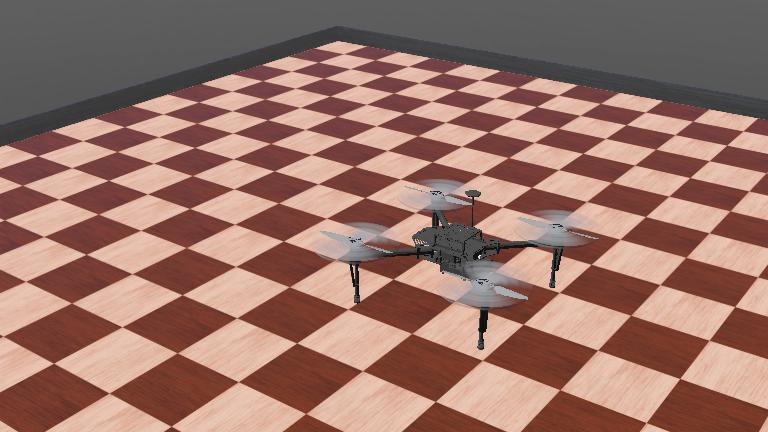
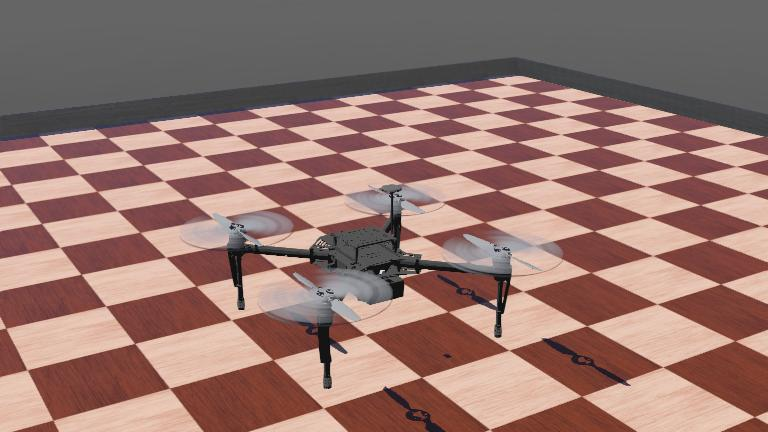
【new】加入位置控制

diff --git a/controllers/drone_controller/drone_controller.cpp b/controllers/drone_controller/drone_controller.cpp
@@ -101,9 +101,11 @@ int main(int argc, char **argv) {
   Accelerometer *acc = robot->getAccelerometer("acc");
   acc->enable(timeStep);
 
-  float vel_z = 0;
-  float prev_pos_z = 0;
-  float height_tar = 5;
+
+  
+
+
+
   /**
    * @brief 启用电机
    * 
@@ -174,8 +176,49 @@ int main(int argc, char **argv) {
   pos_z_pid.setOutputLimit(5.0f);
   pos_z_pid.setIntegralLimit(100.0f);
 
-  float yaw_tar = 0.0f;
+  PID pos_xy_pid[2];
+  pos_xy_pid[0].setGains(1.0f,0.0f,0.0f);
+  pos_xy_pid[0].setOutputLimit(10.0f);
+  pos_xy_pid[1].setGains(1.0f,0.0f,0.0f);
+  pos_xy_pid[1].setOutputLimit(10.0f);
 
+  PID vel_xy_pid[2];
+  vel_xy_pid[0].setGains(0.3f,0.0f,0.03f);
+  vel_xy_pid[0].setOutputLimit(0.5f);
+  vel_xy_pid[1].setGains(0.3f,0.0f,0.03f);
+  vel_xy_pid[1].setOutputLimit(0.5f);
+
+
+  float pos_x = 0;
+  float pos_y = 0;
+  float pos_z = 0;
+
+  float prev_pos_z = 0;
+  float prev_pos_x = 0;
+  float prev_pos_y = 0;
+
+
+  float vel_z = 0;
+  float vel_x = 0;
+  float vel_y = 0;
+
+
+  float pos_x_tar = 0.0f;
+  float pos_y_tar = 0.0f;
+
+  float vel_x_tar = 0.0f;
+  float vel_y_tar = 0.0f;
+
+  float acc_x_tar = 0.0f;
+  float acc_y_tar = 0.0f;
+
+
+  float yaw_tar = 0.0f;
+  float height_tar = 3;
+
+
+  int step = 0;
+  double step_time = 0;
   // Main loop:
   // - perform simulation steps until Webots is stopping the controller
   while (robot->step(timeStep) != -1) {
@@ -191,17 +234,96 @@ int main(int argc, char **argv) {
     const double *gps_info  = gps->getValues();
     const double *acc_info  = acc->getValues();
 
+    pos_x = gps_info[0];
+    pos_y = gps_info[1];
+    pos_z = gps_info[2];
+
+    std::cout<<"pos_x"<<pos_x<<std::endl;
+    std::cout<<"pos_y"<<pos_y<<std::endl;
+
+    vel_x = 0.8*(gps_info[0]-prev_pos_x)/dt+0.2*vel_x;
+    vel_y = 0.8*(gps_info[1]-prev_pos_y)/dt+0.2*vel_y;
     vel_z = 0.8*(gps_info[2]-prev_pos_z)/dt+0.2*vel_z;
+
+    prev_pos_x = gps_info[0];
+    prev_pos_y = gps_info[1];
     prev_pos_z = gps_info[2];
+    
+
+    if (step == 0)
+    {
+      height_tar = 3;
+      pos_x_tar  = 0;
+      pos_y_tar  = 0;
+      if ((robot->getTime()-step_time)>5.0)
+      {
+        
+        step_time = robot->getTime();
+        step = 1;
+      }
+      
+    }
+    else if (step ==1)
+    {
+      height_tar = 3;
+      pos_x_tar  = 5;
+      pos_y_tar  = 0;
+      if ((robot->getTime()-step_time)>5.0)
+      {
+        
+        step_time = robot->getTime();
+        step = 2;
+      }     
+    }
+    else if (step ==2)
+    {
+      height_tar = 3;
+      pos_x_tar  = 5;
+      pos_y_tar  = 5;
+      if ((robot->getTime()-step_time)>5.0)
+      {
+        
+        step_time = robot->getTime();
+        step = 3;
+      }
+    }    
+    else if (step ==3)
+    {
+      height_tar = 3;
+      pos_x_tar  = 0;
+      pos_y_tar  = 5;
+      if ((robot->getTime()-step_time)>5.0)
+      {
+        
+        step_time = robot->getTime();
+        step = 0;
+      }
+    }    
+
+
+
+
+    // if (m_abs(pos_x - 0.0)<0.1f&&
+    //     m_abs(pos_y - 0.0)<0.1f&&
+    //     m_abs(pos_z - 0.0)<0.1f&&
+    //    )
+    // {
+    //   /* code */
+    // }
+    // else
+    // {
+    //   /* code */
+    // }
+    
 
     // std::cout<<vel_z<<", "
-    //           <<gps_info[2]<<std::endl;
+    // <<gps_info[2]<<std::endl;
     //std::cout<<acc_info[2]<<std::endl;
     
     // // 初始姿态四元数 (无旋转)
     Quatf current_attitude(quat_info[3],quat_info[0], quat_info[1], quat_info[2]);
-
-    yaw_tar -= rc_info[RC_YAW]/1000.0f/50.0f;
+    yaw_tar = 0;
+    //yaw_tar -= rc_info[RC_YAW]/1000.0f/50.0f;
     if (yaw_tar>M_PI)
     {
       yaw_tar-=2*M_PI;
@@ -212,11 +334,30 @@ int main(int argc, char **argv) {
     }
     yaw_tar = m_constrain(yaw_tar,-M_PI,M_PI);
 
-    std::cout<<yaw_tar<<std::endl;
+    //位置控制器
+    pos_xy_pid[0].setSetpoint(pos_x_tar);
+    vel_x_tar =  pos_xy_pid[0].update(pos_x,dt);
+    
+    pos_xy_pid[1].setSetpoint(pos_y_tar);
+    vel_y_tar =  pos_xy_pid[1].update(pos_y,dt);
+    
+    std::cout<<vel_x_tar<<std::endl;
+    std::cout<<vel_y_tar<<std::endl;
+
+    //速度控制器
+    vel_xy_pid[0].setSetpoint(vel_x_tar);
+    acc_x_tar =  vel_xy_pid[0].update(vel_x,dt);
+    
+    vel_xy_pid[1].setSetpoint(vel_y_tar);
+    acc_y_tar =  vel_xy_pid[1].update(vel_y,dt); 
+
+
+    //std::cout<<yaw_tar<<std::endl;
     // // 目标姿态四元数
+
     float stick_attitude[4];
-    euler_to_quaternion(rc_info[RC_PIT]/2000.0f,rc_info[RC_ROL]/2000.0f,yaw_tar,stick_attitude);
-    //stick_to_quaternion(rc_info[RC_PIT]/1000.0f,rc_info[RC_ROL]/1000.0f,yaw_tar,M_PI/4,stick_attitude);
+    // euler_to_quaternion(rc_info[RC_PIT]/2000.0f,rc_info[RC_ROL]/2000.0f,yaw_tar,stick_attitude);
+    euler_to_quaternion(acc_y_tar,acc_x_tar,yaw_tar,stick_attitude);
     Quatf target_attitude(stick_attitude[0],stick_attitude[1],stick_attitude[2],stick_attitude[3]);
 
     
